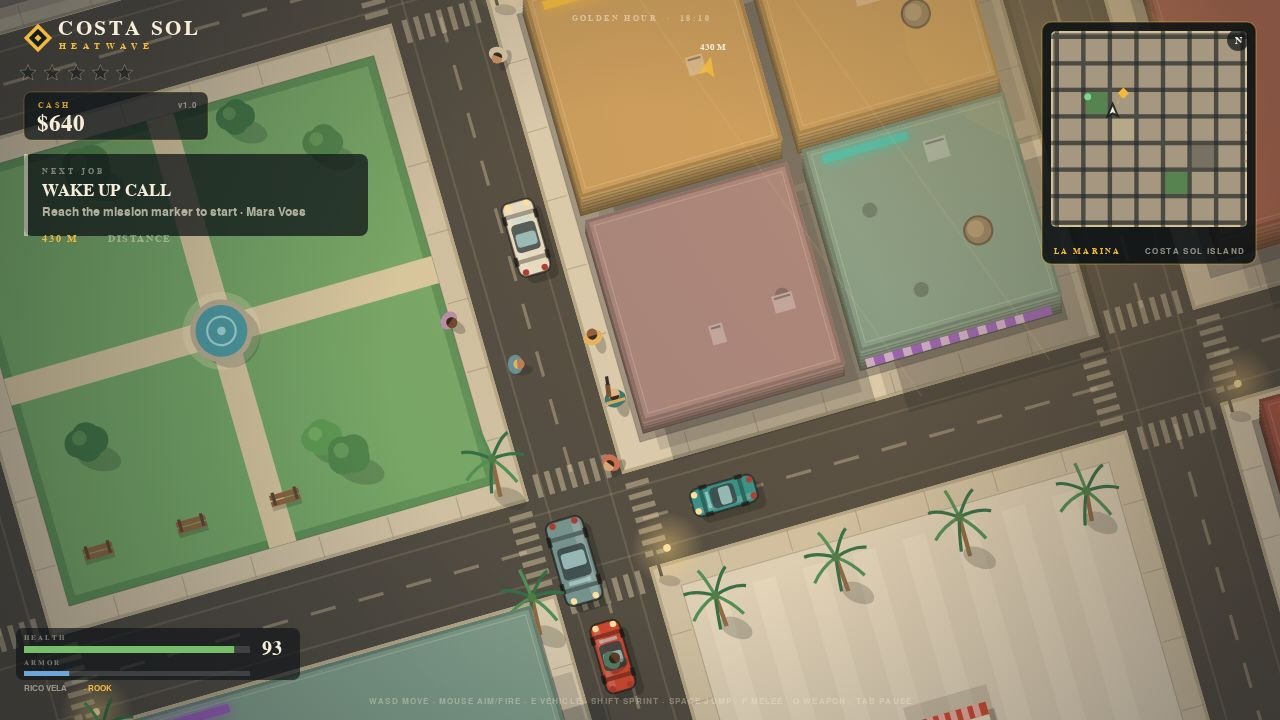
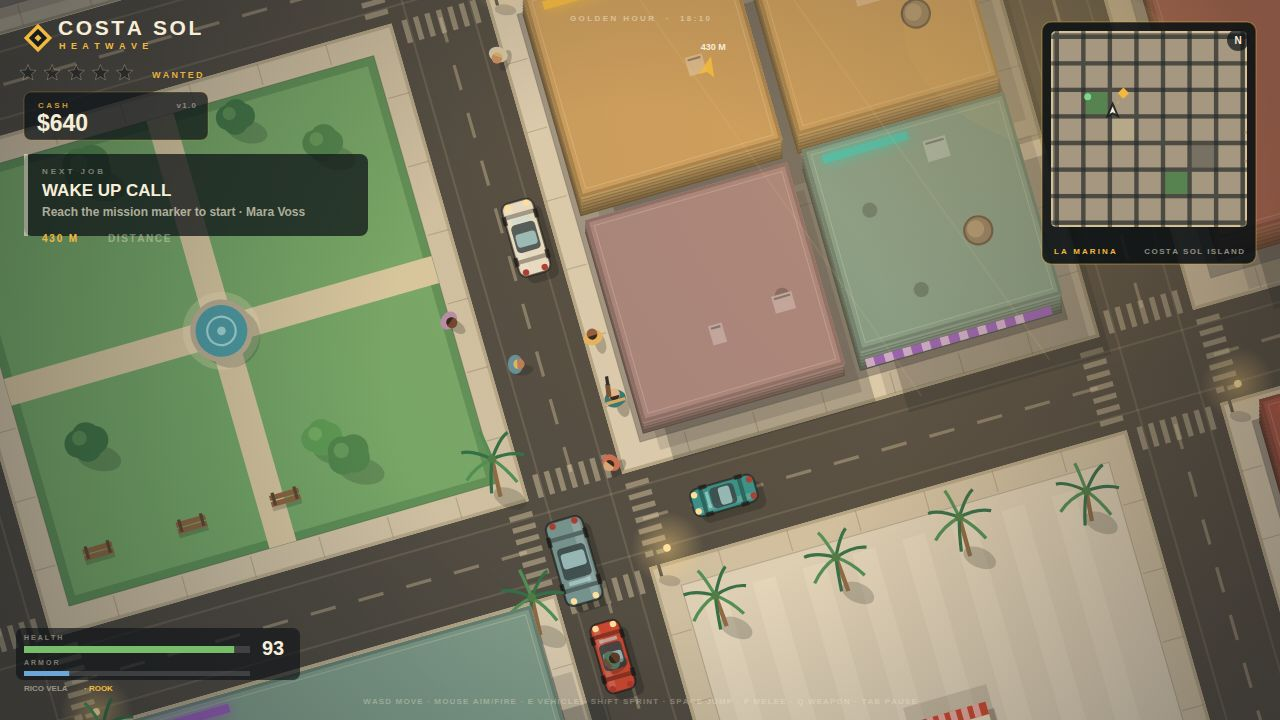
feat: staged scenes with pedestrians, explicit wanted label, visible HUD

diff --git a/game/src/shots.js b/game/src/shots.js
@@ -93,6 +93,10 @@
     addPed(game, blockNE, 3, 1700, 1298, 0.4, '#5e8f9a');
     addPed(game, blockNE, 2, 1680, 1290, 2.8, '#d9d2c0');
     addPed(game, blockNE, 1, 1810, 1140, 1.2, '#8a6e5a');
+    addPed(game, blockSE, 0, 1718, 1232, 1.9, '#e8b04c', '#5a3a26');
+    addPed(game, blockSE, 0, 1808, 1218, -1.2, '#5e8f9a', '#d8a578');
+    addPed(game, blockNE, 2, 1742, 1278, 2.6, '#c96b52', '#8d5a3b');
+    addPed(game, blockNE, 1, 1788, 1188, 0.8, '#b78ba8', '#6b432c');
     addCar(game, 0, 1120, 1240, 0, '#c8452f');
     addCar(game, 3, 1500, 1200, 0, '#e8b04c');
     const car = CC.Vehicles.create(0, 1765, 1240, 0.03, { color: '#2f8f8a' });
@@ -142,8 +146,14 @@
         addCar(game, n % 6, 1250 + n * 280, 2320 + lane, lane > 0 ? 0 : Math.PI, null);
       }
     }
-    placeCamera(game, 2030, 2025, 0.04, 0.27);
-    game.hudHidden = true;
+    for (let n = 0; n < 10; n += 1) {
+      const block = city.blocks[(n * 5 + 23) % city.blocks.length];
+      const corner = n % 4;
+      const point = CC.People.cornerPoint(block, corner);
+      addPed(game, block, corner, point.x + rng.range(-30, 30), point.y + rng.range(-8, 8), rng() * U.TAU);
+    }
+    placeCamera(game, 2020, 2000, 0.04, 0.32);
+    game.hudHidden = false;
   }
 
   function stageOnFoot(game) {

diff --git a/main.ts b/main.ts
@@ -1,5 +1,6 @@
 // COSTA SOL: Heatwave — make.fun gta6-01 entry (recorded build)
 const BUILD_TAG = "costa-sol-heatwave-2026";
+// authored by the recorded COSTA SOL worker (resubmission)
 // A working gta6-01 entry (Node 22, standard library only): the game is this directory's
 // game/ folder, plain static files a desktop browser loads offline (game/index.html and its ES
 // modules, no library and no network request), and the program hands it in. It copies game/ and

diff --git a/game/src/hud.js b/game/src/hud.js
@@ -101,6 +101,9 @@
     ctx.font = '700 9px "Helvetica Neue", sans-serif';
     spaced(ctx, 'HEATWAVE', 59, 49, 5.4);
     drawStars(ctx, game, 28, 73, 17);
+    ctx.fillStyle = 'rgba(243, 185, 63, 0.95)';
+    ctx.font = '700 9px "Helvetica Neue", sans-serif';
+    spaced(ctx, 'WANTED', 152, 78, 2.2);
   }
 
   function drawMoney(ctx, game) {
